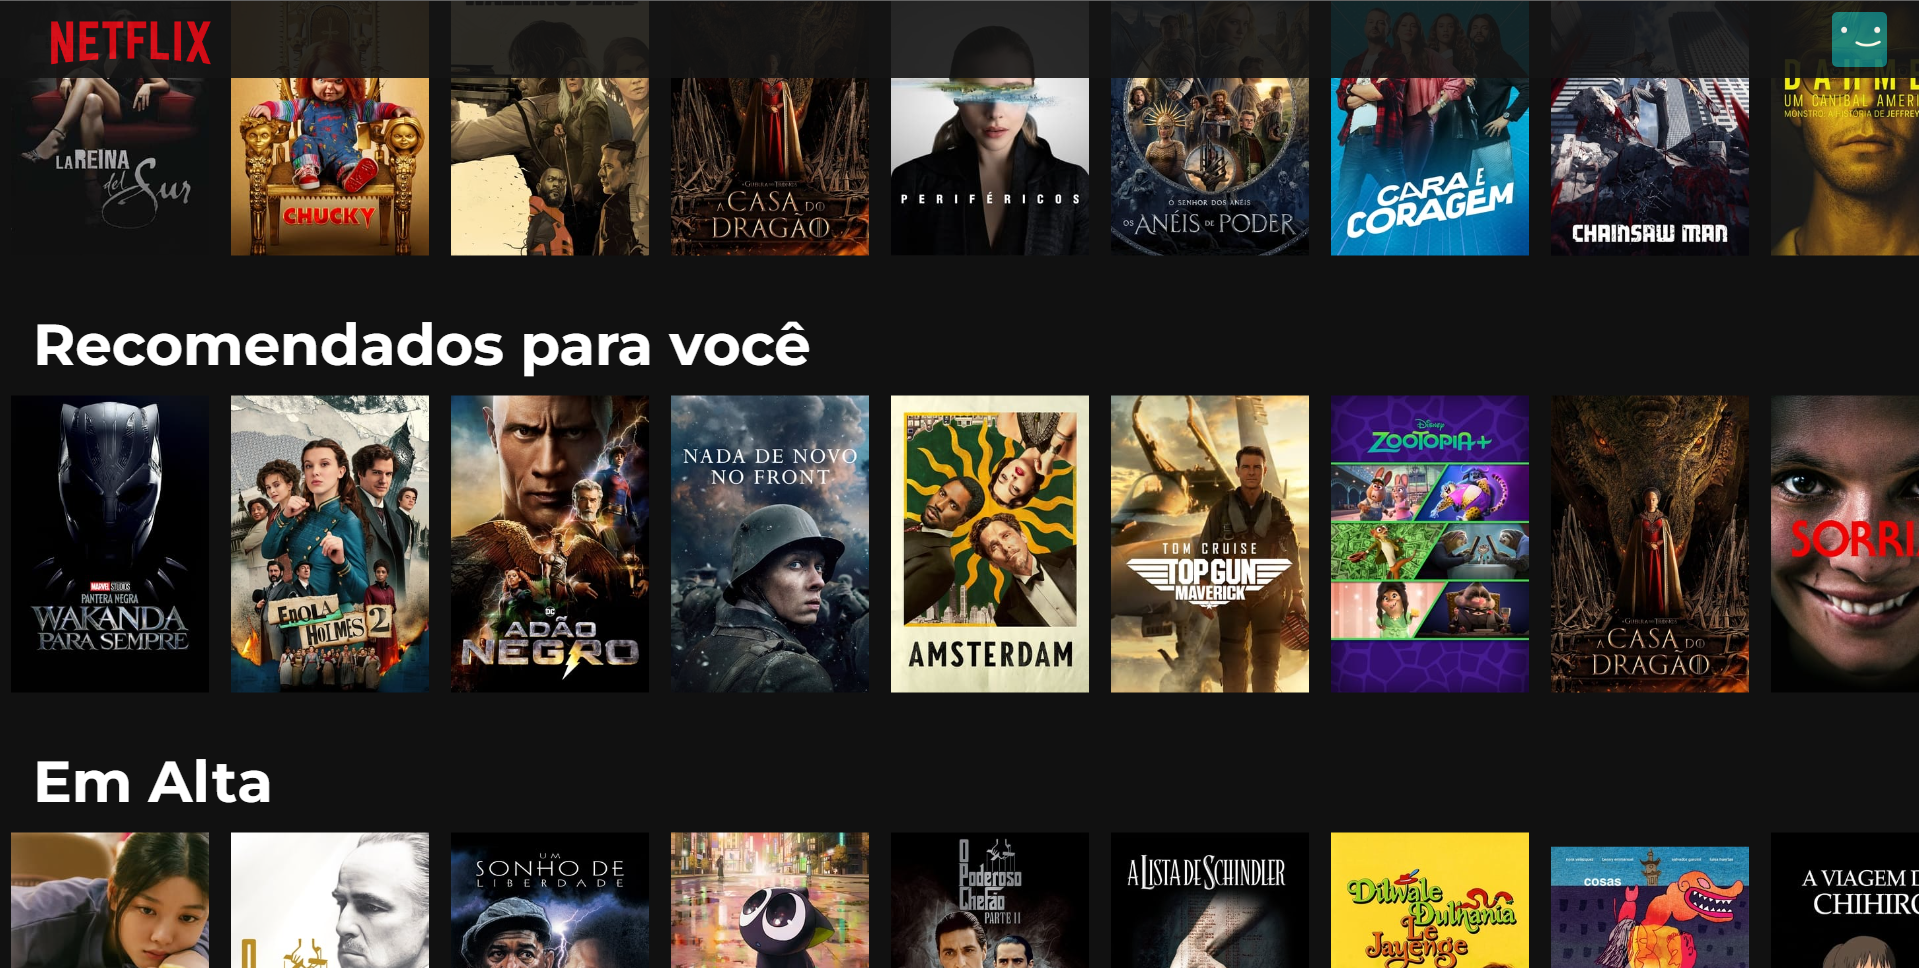
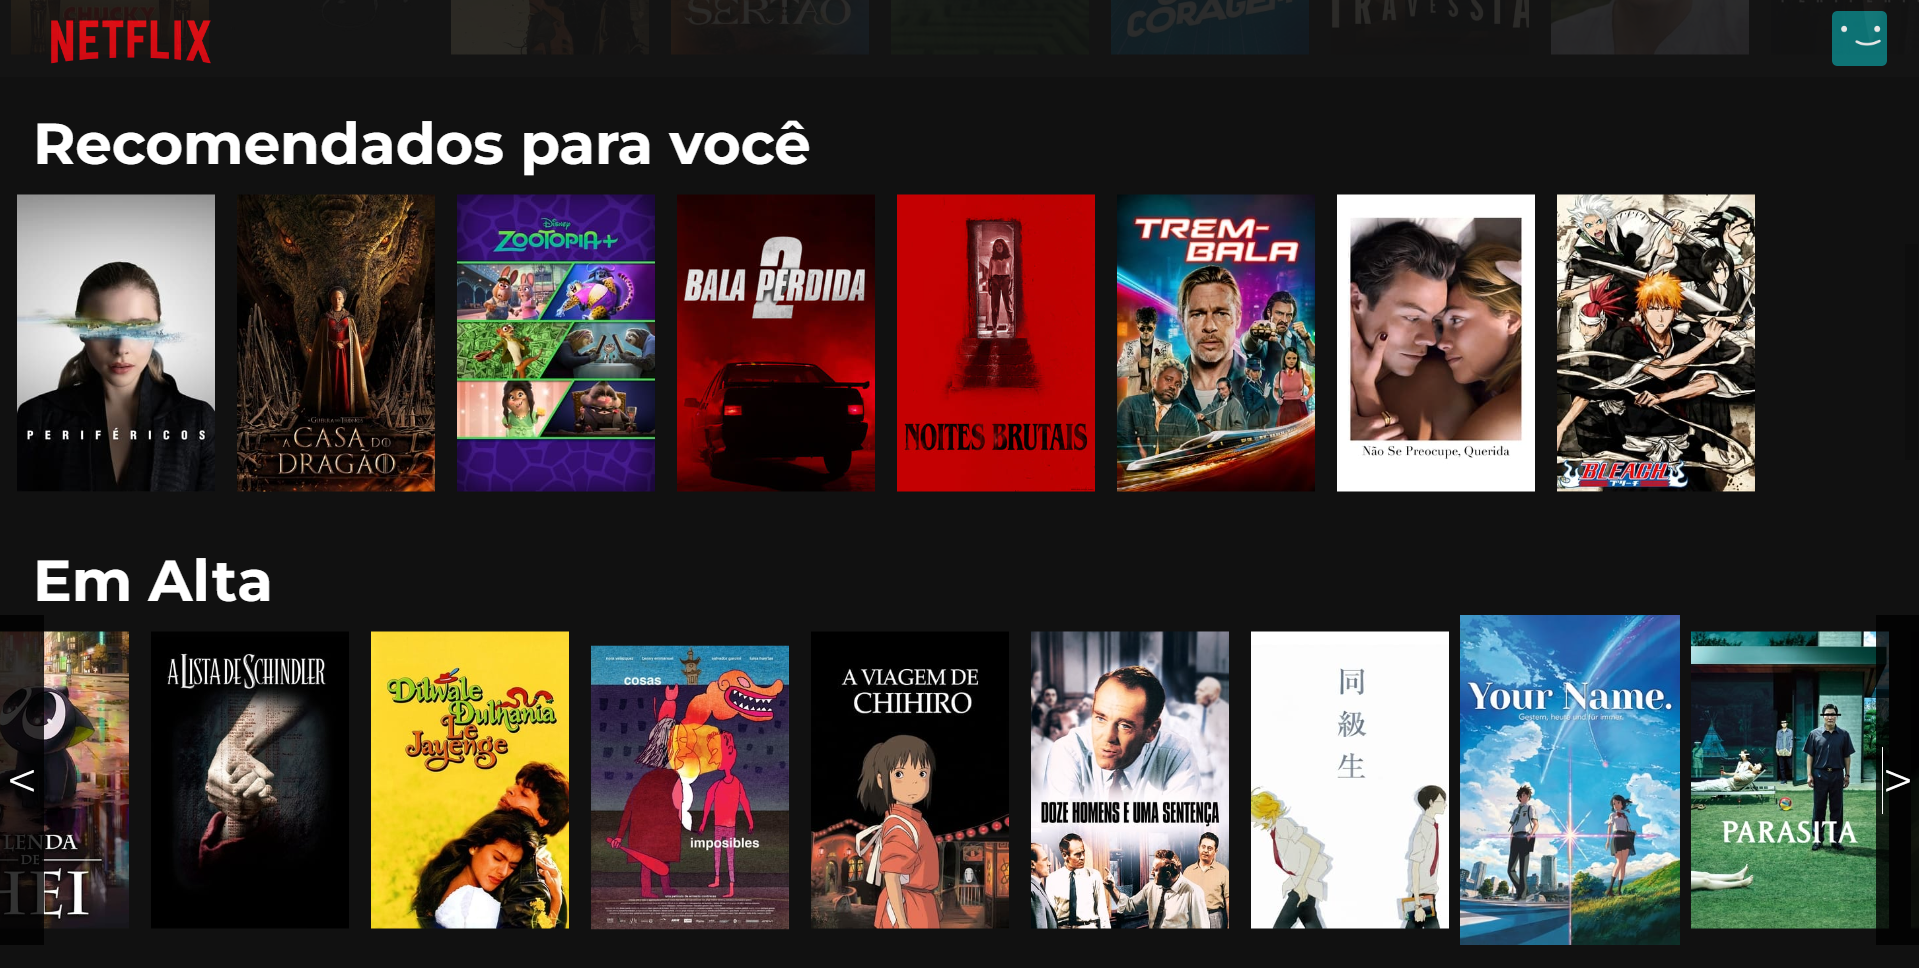
Projeto versão do projeto finalizada

diff --git a/src/components/FeaturedMovie/FeaturedMovie.module.scss b/src/components/FeaturedMovie/FeaturedMovie.module.scss
@@ -1,12 +1,12 @@
 .featured {
     height: 100vh;
 
-    .featuredVertical{
+    .featuredVertical {
         width: inherit;
         height: inherit;
         background: linear-gradient(to top, #111 10%, transparent 90%);
 
-        .featuredHorizontal{
+        .featuredHorizontal {
             width: inherit;
             height: inherit;
             background: linear-gradient(to right, #111 30%, transparent 70%);
@@ -17,38 +17,41 @@
             padding-bottom: 150px;
             padding-top: 70px;
 
-            .featuredName{
+            .featuredName {
                 font-size: 60px;
                 font-weight: 700;
                 max-width: 50%;
             }
 
-            .featuredInfo{
+            .featuredInfo {
                 font-size: 18px;
                 font-weight: 700;
                 margin-top: 15px;
 
-                .featuredPoints, .featuredYear, .featuredSeasons{
-                    display: inline-block;   
+                .featuredPoints,
+                .featuredYear,
+                .featuredSeasons {
+                    display: inline-block;
                     margin-right: 15px;
                 }
 
-                .featuredPoints{
+                .featuredPoints {
                     color: #46d369;
                 }
             }
 
-            .featuredDescripition{
+            .featuredDescripition {
                 margin-top: 15px;
                 font-size: 20px;
                 color: #999;
-                max-width: 40%;
+                max-width: 30%;
             }
 
-            .featuredButtons{
+            .featuredButtons {
                 margin-top: 15px;
 
-                .featuredWacthButton, .featuredMyListButton{
+                .featuredWacthButton,
+                .featuredMyListButton {
                     display: inline-block;
                     font-size: 20px;
                     font-weight: bold;
@@ -59,26 +62,61 @@
                     transition: all ease 300ms;
                 }
 
-                .featuredWacthButton, .featuredMyListButton:hover{
+                .featuredWacthButton,
+                .featuredMyListButton:hover {
                     opacity: 0.7;
                 }
 
-                .featuredWacthButton{
+                .featuredWacthButton {
                     background-color: #fff;
                     color: #000;
                 }
 
-                .featuredMyListButton{
+                .featuredMyListButton {
                     background-color: #333;
                     color: #fff;
                 }
             }
 
-            .featuredGenrs{
+            .featuredGenrs {
                 margin-top: 15px;
                 font-size: 18px;
                 color: #999;
             }
         }
     }
+}
+
+@media (max-width:760px) {
+    .featured {
+        .featuredVertical {
+            .featuredHorizontal {
+                .featuredName {
+                    font-size: 40px;
+                }
+
+                .featuredInfo {
+                    font-size: 16px;
+                }
+
+                .featuredDescripition {
+                    font-size: 14px;
+                    max-width: 100%;
+                    margin-right: 30px;
+                }
+
+                .featuredButtons {
+                    .featuredWacthButton,
+                    .featuredMyListButton {
+                        font-size: 16px;
+                    }
+                }
+
+                .featuredGenrs {
+                    font-size: 18px;
+                }
+            }
+        }
+    }
+
 }

diff --git a/src/App.jsx b/src/App.jsx
@@ -18,18 +18,18 @@ export default function App() {
       setMovieList(list);
 
       //Pegando a capa inicial
-      let originals = list.filter(i=>i.slug === "originals");
+      let originals = list.filter(i => i.slug === "originals");
       let randomChosen = Math.floor(Math.random() * (originals[0].items.results.length - 1));
       let chosen = originals[0].items.results[randomChosen];
       let chosenInfo = await Tmdb.getMovieInfo(chosen.id, "tv");
-      
+
       setFeatureData(chosenInfo);
     }
 
     loadAll();
   }, []);
 
-  useEffect (()=> {
+  useEffect(() => {
     const scrollListener = () => {
       if (window.scrollY > 10) {
         setBlackHeader(true);
@@ -47,21 +47,35 @@ export default function App() {
   return (
     <div className="App">
 
-      <Header black={blackHeader}/>
+      <Header black={blackHeader} />
 
       {featureData &&
-        <FeaturedMovie item={featureData}/>
+        <FeaturedMovie item={featureData} />
       }
 
       <section className="list">
         {movieList.map((item, key) => (
-          <MovieRow 
-          key={key} 
-          title={item.title}
-          items={item.items}
+          <MovieRow
+            key={key}
+            title={item.title}
+            items={item.items}
           />
         ))}
       </section>
+
+      <footer>
+
+        Feito em conjunto com o vídeo https://youtu.be/tBweoUiMsDg <span role="img" aria-label='Coração'>❤</span><br />
+        Todos os direitos reservados a  <a style={{ color: 'red' }} href="https://www.netflix.com/br/">Netflix</a><br />
+        Dados pegos do portal <a style={{ color: '#00ff00' }} href="https://www.themoviedb.org/">Themoviedb.org</a>
+
+      </footer>
+
+      {movieList.length <= 0 &&
+        <div className='loading'>
+          <img src="https://media.filmelier.com/noticias/br/2020/03/Netflix_LoadTime.gif" alt="imagem loading" />
+        </div>
+      }
 
     </div>
   );

diff --git a/src/components/movieRow/index.jsx b/src/components/movieRow/index.jsx
@@ -1,7 +1,27 @@
-import React from "react";
+import React, { useState } from "react";
 import style from './MovieRow.module.scss';
 
 export default ({ title, items }) => {
+    const [scrollX, setScrollX] = useState(0);
+
+
+    const handleLeftArrow = () => {
+        let x = scrollX + Math.round(window.innerWidth / 2);
+        if ( x > 0 ) {
+            x = 0;
+        }
+        setScrollX(x);
+    }
+
+    const handleRightArrow = () => {
+        let x = scrollX - Math.round(window.innerWidth / 2);
+        let listW = items.results.length * 200;
+        if ((window.innerWidth - listW) > x) {
+            x = (window.innerWidth - listW) - 140
+        }
+        setScrollX(x);
+    }
+
     return (
         <div className={style.movieRow}>
 
@@ -9,9 +29,24 @@ export default ({ title, items }) => {
                 {title}
             </h2>
 
+            <div className={style.movieRowLeft} onClick={handleLeftArrow}>
+                <span style={{ fontSize: 50 }}>
+                    &lt;
+                </span>
+            </div>
+
+            <div className={style.movieRowRight} onClick={handleRightArrow}>
+                <span style={{fontSize: 50, fontWeigt: 'bold'}}>
+                    &gt;
+                </span>
+            </div>
+
             <div className={style.movieRowListArea}>
 
-                <div className={style.movieRowList}>
+                <div className={style.movieRowList} style={{
+                    marginLeft: scrollX,
+                    width: items.results.length * 200
+                }}>
 
                     {items.results.length > 0 && items.results.map((item, key) => (
                         <div key={key} className={style.movieRowItem}>

diff --git a/src/components/movieRow/MovieRow.module.scss b/src/components/movieRow/MovieRow.module.scss
@@ -1,5 +1,14 @@
+.movieRow:hover{
+    .movieRowLeft, .movieRowRight{
+        opacity: 1;
+        
+    }
+}
+
+
 .movieRow {
     margin-bottom: 30px;
+    
 
     h2 {
         font-weight: 700;
@@ -7,11 +16,34 @@
         margin: 0px 0px 0px 30px;
     }
 
+    .movieRowLeft, .movieRowRight{
+        position: absolute;
+        width: 40px;
+        height: 300px;
+        background-color: rgba(0, 0, 0, 0.8);
+        z-index: 2;
+        display: flex;
+        align-items: center;
+        justify-content: center;
+        overflow: hidden;
+        cursor: pointer;
+        opacity: 0;
+        transition: all ease-in-out 500ms ;
+    }
+
+    .movieRowLeft{
+        left: 0;
+    }
+
+    .movieRowRight{
+        right: 0;
+    }
+
     .movieRowListArea {
         overflow-x: hidden;
 
         .movieRowList{
-            width: 99999999px;
+            transition: all ease 1s;
         }
 
         .movieRowItem{
@@ -28,6 +60,14 @@
                 transform: scale(1);
                 cursor: pointer;
             }
+        }
+    }
+}
+
+@media (max-width:760px) {
+    .movieRow {
+        .movieRowLeft, .movieRowRight{
+            opacity: 1;
         }
     }
 }

diff --git a/src/components/FeaturedMovie/index.jsx b/src/components/FeaturedMovie/index.jsx
@@ -9,6 +9,11 @@ export default ({ item }) => {
         genres.push(item.genres[i].name)
     }
 
+    let description = item.overview;
+    if (description.length > 200) {
+        description = description.substring(0, 200)+"...";
+    }
+
     return (
         <section>
 
@@ -45,7 +50,7 @@ export default ({ item }) => {
                         </div>
 
                         <div className={style.featuredDescripition}>
-                            {item.overview}
+                            {description}
                         </div>
 
                         <div className={style.featuredButtons}>

diff --git a/index.html b/index.html
@@ -3,7 +3,8 @@
   <head>
     <meta charset="UTF-8" />
     <meta name="viewport" content="width=device-width, initial-scale=1.0" />
-    <title>Metflix</title>
+    <link rel="shortcut icon" href="https://upload.wikimedia.org/wikipedia/commons/7/75/Netflix_icon.svg" type="image/x-icon">
+    <title>Netflix</title>
   </head>
   <body>
     <div id="root"></div>

diff --git a/src/App.css b/src/App.css
@@ -20,3 +20,16 @@ body {
 .list {
     margin-top: -180px;
 }
+
+.loading{
+    position: fixed;
+    left: 0;
+    top: 0;
+    right: 0;
+    bottom: 0;
+    z-index: 5;
+    background-color: #000;
+    display: flex;
+    justify-content: center;
+    align-items: center;
+}

diff --git a/README.md b/README.md
@@ -2,9 +2,11 @@
 
 ![logo netflix](./src/assets/img/logo.png)
 
->projeto em desenvolvimento
+>projeto finalizado
 
 <h2>Projeto desenvolvido utilizando a biblioteca React com o intuito de praticar e aprofundar conhecimentos referente a linguagem e, concomitantemente, suas dependências</h2>
+
+>clique <a href='https://clone-netflix-one-xi.vercel.app/'> aqui </a> para visitar o site
 
 <h3> Baixar a extensão do Scss:</h3>
 
